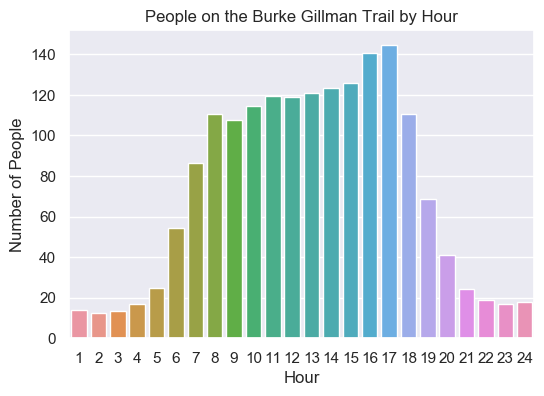
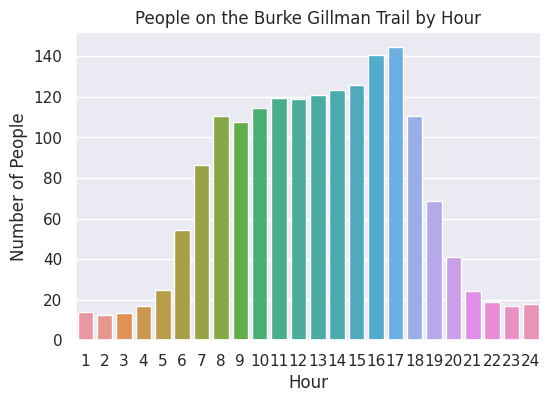
fix plot

diff --git a/daily.py b/daily.py
@@ -8,7 +8,7 @@ import seaborn as sns
 def graph_by_hour(data):
     data = data.groupby('HOUR', as_index=False).mean()
     fig, ax = plt.subplots(1, figsize=(6, 4))
-    sns.catplot(ax=ax, x='HOUR', y='Total', data=data, kind='bar')
+    sns.barplot(ax=ax, x='HOUR', y='Total', data=data)
     ax.set_title('People on the Burke Gillman Trail by Hour')
     ax.set_xlabel('Hour')
     ax.set_ylabel('Number of People')
